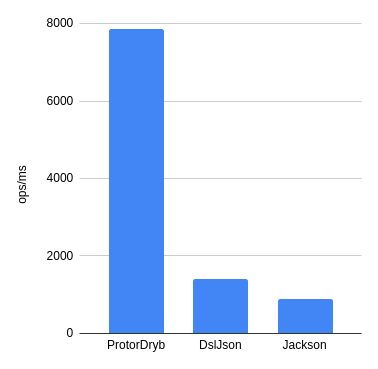
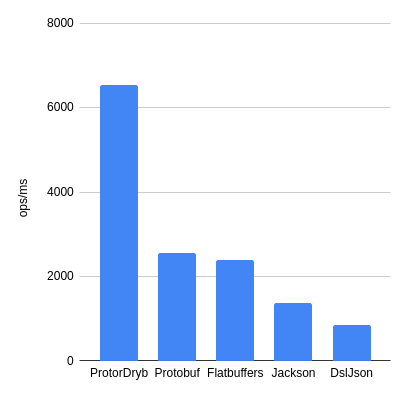
Modified benchmarks to calculate also the initialization of object bcs of FBS

Changed region(s): [[0.1164, 0.0596, 0.9603, 0.9539], [0.0291, 0.4472, 0.0873, 0.5664], [0.1164, 0.0298, 0.2037, 0.0894]]

diff --git a/jmh/src/main/java/com/hadj4r/benchmark/BenchmarkRunner.java b/jmh/src/main/java/com/hadj4r/benchmark/BenchmarkRunner.java
@@ -35,7 +35,7 @@ public class BenchmarkRunner {
     private static final DslJson<Object> DSL_JSON = new DslJson<>(Settings.withRuntime().allowArrayFormat(true).includeServiceLoader());
     private static final JsonWriter WRITER = DSL_JSON.newWriter();
     private static final ObjectMapper OBJECT_MAPPER = new ObjectMapper();
-    private static final FlatBufferBuilder FLAT_BUFFER_BUILDER = new FlatBufferBuilder(0);
+    private final FlatBufferBuilder flatBufferBuilder = new FlatBufferBuilder(0);
     private ImmutableModel immutableModel;
     private ProtoModel immutableModelProto;
 
@@ -45,25 +45,23 @@ public class BenchmarkRunner {
 
     @Setup
     public void setup() {
-        initPojo();
-
-        initProtoPojo();
-
-        initFlatBuffersPojo();
     }
 
     @Benchmark
     public byte[] _000_ProtoDryb_Serialize() {
+        initPojo();
         return IMMUTABLE_MODEL_SERIALIZER.serialize(immutableModel);
     }
 
     @Benchmark
     public byte[] _100_Jackson_Serialize() throws JsonProcessingException {
+        initPojo();
         return OBJECT_MAPPER.writeValueAsBytes(immutableModel);
     }
 
     @Benchmark
     public byte[] _200_DslJson_Serialize() throws IOException {
+        initPojo();
         WRITER.reset();
         DSL_JSON.serialize(WRITER, immutableModel);
         return WRITER.toByteArray();
@@ -71,12 +69,14 @@ public class BenchmarkRunner {
 
     @Benchmark
     public byte[] _300_ProtoBuf_Serialize() {
+        initProtoPojo();
         return immutableModelProto.toByteArray();
     }
 
     @Benchmark
     public byte[] _400_FlatBuffers_Serialize() {
-        return FLAT_BUFFER_BUILDER.sizedByteArray();
+        initFlatBuffersPojo();
+        return flatBufferBuilder.sizedByteArray();
     }
 
 
@@ -207,32 +207,32 @@ public class BenchmarkRunner {
                 .build();
     }
 
-    private static void initFlatBuffersPojo() {
-        FLAT_BUFFER_BUILDER.clear();
-        final int stringVar = FLAT_BUFFER_BUILDER.createString("test");
-        final int stringVar2 = FLAT_BUFFER_BUILDER.createString("another test");
-        final int booleanArrVar = FlatbuffersModel.createBooleanArrayVarVector(FLAT_BUFFER_BUILDER, new boolean[]{false, true, false});
-        final int shortArrVar = FlatbuffersModel.createShortArrayVarVector(FLAT_BUFFER_BUILDER, new short[]{4, 5, 6});
-        final int intArrVar = FlatbuffersModel.createIntArrayVarVector(FLAT_BUFFER_BUILDER, new int[]{7, 8, 9});
-        final int longArrVar = FlatbuffersModel.createLongArrayVarVector(FLAT_BUFFER_BUILDER, new long[]{10L, 11L, 12L});
-        final int floatArrVar = FlatbuffersModel.createFloatArrayVarVector(FLAT_BUFFER_BUILDER, new float[]{13.0f, 14.0f, 15.0f});
-        final int doubleArrVar = FlatbuffersModel.createDoubleArrayVarVector(FLAT_BUFFER_BUILDER, new double[]{16.0, 17.0, 18.0});
-        FlatbuffersModel.startFlatbuffersModel(FLAT_BUFFER_BUILDER);
-        FlatbuffersModel.addBooleanVar(FLAT_BUFFER_BUILDER, true);
-        FlatbuffersModel.addShortVar(FLAT_BUFFER_BUILDER, (short) 2);
-        FlatbuffersModel.addIntVar(FLAT_BUFFER_BUILDER, 3);
-        FlatbuffersModel.addLongVar(FLAT_BUFFER_BUILDER, 4L);
-        FlatbuffersModel.addFloatVar(FLAT_BUFFER_BUILDER, 5.0f);
-        FlatbuffersModel.addDoubleVar(FLAT_BUFFER_BUILDER, 6.0);
-        FlatbuffersModel.addStringVar(FLAT_BUFFER_BUILDER, stringVar);
-        FlatbuffersModel.addStringVar2(FLAT_BUFFER_BUILDER, stringVar2);
-        FlatbuffersModel.addBooleanArrayVar(FLAT_BUFFER_BUILDER, booleanArrVar);
-        FlatbuffersModel.addShortArrayVar(FLAT_BUFFER_BUILDER, shortArrVar);
-        FlatbuffersModel.addIntArrayVar(FLAT_BUFFER_BUILDER, intArrVar);
-        FlatbuffersModel.addLongArrayVar(FLAT_BUFFER_BUILDER, longArrVar);
-        FlatbuffersModel.addFloatArrayVar(FLAT_BUFFER_BUILDER, floatArrVar);
-        FlatbuffersModel.addDoubleArrayVar(FLAT_BUFFER_BUILDER, doubleArrVar);
-        final int model = FlatbuffersModel.endFlatbuffersModel(FLAT_BUFFER_BUILDER);
-        FLAT_BUFFER_BUILDER.finish(model);
+    private void initFlatBuffersPojo() {
+        flatBufferBuilder.clear();
+        final int stringVar = flatBufferBuilder.createString("test");
+        final int stringVar2 = flatBufferBuilder.createString("another test");
+        final int booleanArrVar = FlatbuffersModel.createBooleanArrayVarVector(flatBufferBuilder, new boolean[]{false, true, false});
+        final int shortArrVar = FlatbuffersModel.createShortArrayVarVector(flatBufferBuilder, new short[]{4, 5, 6});
+        final int intArrVar = FlatbuffersModel.createIntArrayVarVector(flatBufferBuilder, new int[]{7, 8, 9});
+        final int longArrVar = FlatbuffersModel.createLongArrayVarVector(flatBufferBuilder, new long[]{10L, 11L, 12L});
+        final int floatArrVar = FlatbuffersModel.createFloatArrayVarVector(flatBufferBuilder, new float[]{13.0f, 14.0f, 15.0f});
+        final int doubleArrVar = FlatbuffersModel.createDoubleArrayVarVector(flatBufferBuilder, new double[]{16.0, 17.0, 18.0});
+        FlatbuffersModel.startFlatbuffersModel(flatBufferBuilder);
+        FlatbuffersModel.addBooleanVar(flatBufferBuilder, true);
+        FlatbuffersModel.addShortVar(flatBufferBuilder, (short) 2);
+        FlatbuffersModel.addIntVar(flatBufferBuilder, 3);
+        FlatbuffersModel.addLongVar(flatBufferBuilder, 4L);
+        FlatbuffersModel.addFloatVar(flatBufferBuilder, 5.0f);
+        FlatbuffersModel.addDoubleVar(flatBufferBuilder, 6.0);
+        FlatbuffersModel.addStringVar(flatBufferBuilder, stringVar);
+        FlatbuffersModel.addStringVar2(flatBufferBuilder, stringVar2);
+        FlatbuffersModel.addBooleanArrayVar(flatBufferBuilder, booleanArrVar);
+        FlatbuffersModel.addShortArrayVar(flatBufferBuilder, shortArrVar);
+        FlatbuffersModel.addIntArrayVar(flatBufferBuilder, intArrVar);
+        FlatbuffersModel.addLongArrayVar(flatBufferBuilder, longArrVar);
+        FlatbuffersModel.addFloatArrayVar(flatBufferBuilder, floatArrVar);
+        FlatbuffersModel.addDoubleArrayVar(flatBufferBuilder, doubleArrVar);
+        final int model = FlatbuffersModel.endFlatbuffersModel(flatBufferBuilder);
+        flatBufferBuilder.finish(model);
     }
 }
